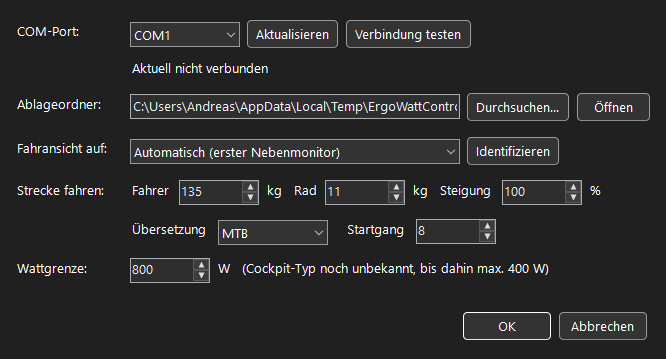
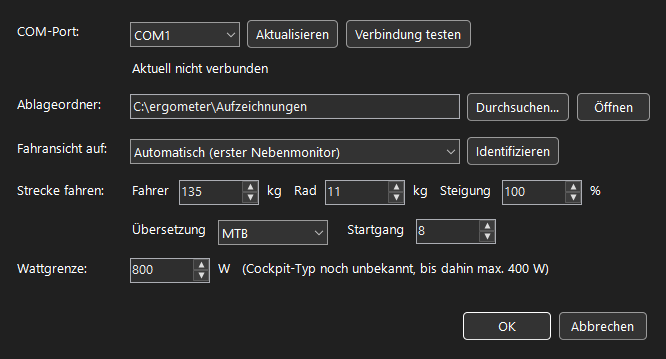
README verlinkt die Hilfe auf GitHub Pages; Hilfebilder mit neutralem Ordner
Die Hilfe ist unter https://andreaskuttruff-git.github.io/ErgoWattControl/Hilfe.html
erreichbar. Die drei Screenshots, die einen Ordner zeigen (Training
wiederholen, Einstellungen, Export), zeigen jetzt C:\ergometer\Aufzeichnungen
statt eines temporären Pfads mit Benutzernamen.

Changed region(s): [[0.2102, 0.2758, 0.6907, 0.337]]

diff --git a/README.md b/README.md
@@ -2,6 +2,8 @@
 
 Steuerung für das Daum **ergo_bike 8008 TRS** über die serielle Schnittstelle (RS232, 9600 8N1) – als Ersatz für das Cockpit-Bedienteil und die Originalsoftware ergo_win 2003.
 
+📖 **[Hilfe / Bedienungsanleitung](https://andreaskuttruff-git.github.io/ErgoWattControl/Hilfe.html)** – mit Screenshots; in der App mit F1.
+
 ## Funktionen
 
 - **Freies Training:** Wattvorgabe in 5-W-Schritten (Tasten ↑↓ + −, Mausrad, Bild ↑↓ ±25 W), Live-Daten von Leistung, RPM, Puls, Geschwindigkeit, Zeit
